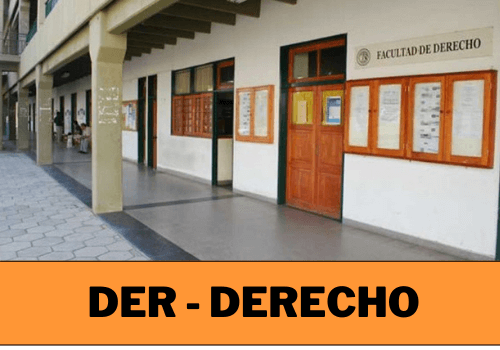
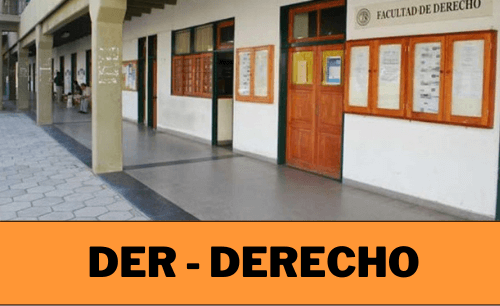
resize imgs, add overlay inscripcion

diff --git a/components/facultades/contacto/ContactoFacultad.js b/components/facultades/contacto/ContactoFacultad.js
@@ -1,5 +1,5 @@
 import {FontAwesomeIcon} from '@fortawesome/react-native-fontawesome';
-import {faAlignJustify, faEnvelope, faPhone} from '@fortawesome/free-solid-svg-icons';
+import {faAlignJustify, faArrowRight, faEnvelope, faPhone} from '@fortawesome/free-solid-svg-icons';
 import React, {useState} from 'react';
 import {TouchableOpacity, View, Text, Linking} from 'react-native';
 import {Overlay} from 'react-native-elements';
@@ -13,6 +13,10 @@ export default function ContactoFacultad({facultad}) {
   const [visible, setVisible] = useState(false);
   const toggleOverlay = () => {
     setVisible(!visible);
+  };
+  const [visible2, setVisible2] = useState(false);
+  const toggleOverlay2 = () => {
+    setVisible2(!visible2);
   };
   return (
     <>
@@ -76,7 +80,7 @@ export default function ContactoFacultad({facultad}) {
                 />
               </View>
               <View style={styles.buttonTextStyle}>
-                <Text style={styles.textStyle}>Telefono</Text>
+                <Text style={styles.textStyle}>Teléfono</Text>
               </View>
             </TouchableOpacity>
           </View>
@@ -111,14 +115,54 @@ export default function ContactoFacultad({facultad}) {
         <TouchableOpacity
           style={styles.buttonShortOutlineStyle}
           activeOpacity={0.5}
-          onPress={() => Linking.openURL('http://preinscripcion.unca.edu.ar/')}>
+          onPress={toggleOverlay2}>
           <View style={styles.buttonImageShortIconStyle}>
             <FontAwesomeIcon
               icon={faAlignJustify}
               size={normalize(20)}
               color={'#1999d0'}
+              style={{position: 'relative'}}
             />
           </View>
+          <Overlay isVisible={visible2} onBackdropPress={toggleOverlay2}>
+            <View style={styles.centeredView}>
+              <Text style={styles.textCartTitleStyle}>
+                {nombreCompleto}
+              </Text>
+
+              <Text style={styles.textCardTitle}>Requisitos a presentar</Text>
+              <Text style={styles.textCard}>
+              <Icon name="arrow-right" size={normalize(20)} color={'black'}/> Copia de frente y dorso del DNI actualizado.</Text>
+              <Text style={styles.textCard}>
+              <Icon name="arrow-right" size={normalize(20)} color={'black'}/> Partida de Nacimiento actualizada (Legalizada para quienes hayan nacido en otra provincia).</Text>
+              <Text style={styles.textCard}>
+              <Icon name="arrow-right" size={normalize(20)} color={'black'}/> Copia legalizada o constancia de certificado en trámite del Nivel Medio o Polimodal Aprobado.</Text>
+              <Text style={styles.textCard}>
+              <Icon name="arrow-right" size={normalize(20)} color={'black'}/> Cuatro (4) fotos Tipo carnet (4x4) en papel fotográfico.</Text>
+              <Text style={styles.textCard}>
+              <Icon name="arrow-right" size={normalize(20)} color={'black'}/> Libreta Universitaria (Adquirir en Secretaria de Extensión Universitaria - Prado Nº 155 – Tel 3834430833).
+              </Text>
+              
+              <View style={styles.buttonContainer}>
+        <TouchableOpacity
+          style={styles.buttonShortOutlineStyle}
+          activeOpacity={0.5}
+          onPress={() => Linking.openURL('http://preinscripcion.unca.edu.ar/')}>
+          <View style={styles.buttonImageShortIconStyle}>
+            <FontAwesomeIcon
+              icon={faArrowRight}
+              size={normalize(20)}
+              color={'#1999d0'}
+            />
+          </View>
+          <View style={styles.buttonTextStyle}>
+            <Text style={styles.textOutlineStyle}>Inscribirse</Text>
+          </View>
+        </TouchableOpacity>
+      </View>
+
+            </View>
+          </Overlay>
           <View style={styles.buttonTextStyle}>
             <Text style={styles.textOutlineStyle}>Inscripción</Text>
           </View>

diff --git a/components/DeporteComponent.js b/components/DeporteComponent.js
@@ -1,28 +1,33 @@
 import * as React from "react";
-import { TouchableOpacity, View, Text, Linking, ScrollView} from "react-native";
+import { TouchableOpacity, View, Text, Linking, ScrollView, Image} from "react-native";
 import { Card, Divider } from "react-native-elements";
 import { estiloBase } from "../assets/styles/estiloBase";
 import { estiloFacultades } from "../assets/styles/estiloFacultades";
 import { normalize } from "./utils/utils";
 import { FontAwesomeIcon } from "@fortawesome/react-native-fontawesome";
 import { faPhone } from "@fortawesome/free-solid-svg-icons";
+import Icon from 'react-native-vector-icons/FontAwesome';
 
 
 export default function DeporteComponent() {
-const colorBackgroundItems = '#2ECC71'
-const telefonoDeporte = '3834430657'
+const colorBackgroundItems = '#2ECC71';
+const telefonoDeporte = '3834430657';
+const wspDeporte = '3834545986'
   return (
     <> 
     
     <ScrollView >
     
-    <Card>
-      <Text style={styles.titleText}>Secretaría de Bienestar Universitario y Asuntos estudiantiles</Text>
-  <Card.Divider/>
+    <Card >
+    <Text style={styles.titleText}>Secretaría de Bienestar Universitario y Asuntos estudiantiles</Text>
+    <Image
+            source={require('../assets/deportes.jpg')}
+            style={styles.responsiveImage}></Image>
+      
 
-              <View style={{...styleButton.buttonContainer, width:180, alignSelf:'center'}}>
+              <View style={{...styleButton.buttonContainer, width:'100%', alignSelf:'center', margin:'5%', flexDirection:'row'}}>
             <TouchableOpacity
-              style={{...styleButton.buttonShortStyle}}
+              style={{...styleButton.buttonShortStyle, flex:100, marginRight:'5%'}}
               activeOpacity={0.5}
               onPress={() => Linking.openURL(`tel: ${telefonoDeporte}`)}>
               <View style={styleButton.buttonImageShortIconStyle}>
@@ -34,7 +39,23 @@ const telefonoDeporte = '3834430657'
                 />
               </View>
               <View style={styleButton.buttonTextStyle}>
-                <Text style={styleButton.textStyle}>Telefono</Text>
+                <Text style={styleButton.textStyle}>Teléfono</Text>
+              </View>
+            </TouchableOpacity> 
+            <TouchableOpacity
+              style={{...styleButton.buttonShortStyle, backgroundColor:'#00bb2d', flex:100}}
+              activeOpacity={0.5}
+              onPress={() =>
+                Linking.openURL(
+                  `https://api.whatsapp.com/send?phone=${wspDeporte}`,
+                )
+              }>
+              <View style={{margin:'3%'}}>
+              <Icon name="whatsapp" size={normalize(20)} color={'white'}/>
+               
+              </View>
+              <View style={styleButton.buttonTextStyle}>
+                <Text style={styleButton.textStyle}>Whatsapp</Text>
               </View>
             </TouchableOpacity>
           </View>
@@ -57,7 +78,7 @@ const telefonoDeporte = '3834430657'
           >
           <Text style={styles.buttonTextStyle}>Más información</Text>
           </TouchableOpacity>
-      
+          <Text style={styles.buttonTextStyle}></Text>
 </Card>
       
       

diff --git a/components/SaludComponent.js b/components/SaludComponent.js
@@ -25,13 +25,13 @@ export default function SaludComponent() {
       <Divider/>
       
       <Text style={styles.baseTextTitle}>Servicios</Text>
-      <Text style={styles.baseTextList}>Atención en consultorios de Clínica médica, Ginecología, Obstetricia, Psicología, Nutrición y Enfermería</Text>     
-      <Text style={styles.baseTextList}>Exámenes Psicofísicos</Text>
-      <Text style={styles.baseTextList}>Programas de Prevención de Enfermedades y Promoción de la Salud</Text>
-      <Text style={styles.baseTextList}>Complementación de medicamentos necesarios para tratamientos</Text>
-      <Text style={styles.baseTextList}>Programa de Sexualidad Responsable y Prevención de ETS</Text>
-      <Text style={styles.baseTextList}>Programa Nacional de Inmunizaciones</Text>
-      <Text style={styles.baseTextList}>Asesoría Nutricional</Text>   
+      <Text style={{...styles.baseTextList, backgroundColor:'#E70707', color:'#FFFFFF'}}>Atención en consultorios de Clínica médica, Ginecología, Obstetricia, Psicología, Nutrición y Enfermería</Text>     
+      <Text style={{...styles.baseTextList, backgroundColor:'#FF8282', color:'#0f0f0f'}}>Exámenes Psicofísicos</Text>
+      <Text style={{...styles.baseTextList, backgroundColor:'#E70707', color:'#FFFFFF'}}>Programas de Prevención de Enfermedades y Promoción de la Salud</Text>
+      <Text style={{...styles.baseTextList, backgroundColor:'#FF8282', color:'#0f0f0f'}}>Complementación de medicamentos necesarios para tratamientos</Text>
+      <Text style={{...styles.baseTextList, backgroundColor:'#E70707', color:'#FFFFFF'}}>Programa de Sexualidad Responsable y Prevención de ETS</Text>
+      <Text style={{...styles.baseTextList, backgroundColor:'#FF8282', color:'#0f0f0f'}}>Programa Nacional de Inmunizaciones</Text>
+      <Text style={{...styles.baseTextList, backgroundColor:'#E70707', color:'#FFFFFF'}}>Asesoría Nutricional</Text>   
       
 </Card>
         </ScrollView>

diff --git a/components/facultades/agrarias/FacultadAgrariasComponent.js b/components/facultades/agrarias/FacultadAgrariasComponent.js
@@ -6,7 +6,7 @@ import {
 import {FontAwesomeIcon} from '@fortawesome/react-native-fontawesome';
 import React, {useEffect} from 'react';
 import {Text, View, BackHandler, Image, TouchableOpacity} from 'react-native';
-import {Card, Button} from 'react-native-elements';
+import {Card, Button, Divider} from 'react-native-elements';
 import {ScrollView} from 'react-native-gesture-handler';
 import {estiloFacultades} from '../../../assets/styles/estiloFacultades';
 import {normalize} from '../../utils/utils';
@@ -47,7 +47,7 @@ export default function FacultadAgrariasComponent({navigation}) {
                     color="#ffffff"
                   />
                 }
-                buttonStyle={{width: '100%', height: undefined, marginRight: 5}}
+                buttonStyle={styles.buttonAnterior}
                 onPress={() => {
                   navegarAComponente('Facultad de Economicas');
                 }}
@@ -64,14 +64,13 @@ export default function FacultadAgrariasComponent({navigation}) {
                     color="#ffffff"
                   />
                 }
-                buttonStyle={{width: '100%', height: undefined, marginLeft: 5}}
+                buttonStyle={styles.buttonSiguiente}
                 onPress={() => {
                   navegarAComponente('Facultad de Derecho');
                 }}
               />
             </Card.Title>
           </View>
-          <Card.Divider style={{backgroundColor: '#0F0F0F'}} />
           <Image
             source={require('../../../assets/agrarias.png')}
             style={styles.responsiveImage}></Image>

diff --git a/components/facultades/derecho/FacultadDerechoComponent.js b/components/facultades/derecho/FacultadDerechoComponent.js
@@ -47,9 +47,9 @@ export default function FacultadDerechoComponent({navigation}) {
                     color="#ffffff"
                   />
                 }
-                buttonStyle={{width: '100%', height: undefined, marginRight: 5}}
+                buttonStyle={styles.buttonAnterior}
                 onPress={() => {
-                  navegarAComponente('Escuela de Agrarias');
+                  navegarAComponente('Facultad de Agrarias');
                 }}
               />
 
@@ -64,14 +64,13 @@ export default function FacultadDerechoComponent({navigation}) {
                     color="#ffffff"
                   />
                 }
-                buttonStyle={{width: '100%', height: undefined, marginLeft: 5}}
+                buttonStyle={styles.buttonSiguiente}
                 onPress={() => {
                   navegarAComponente('Facultad de Salud');
                 }}
               />
             </Card.Title>
           </View>
-          <Card.Divider style={{backgroundColor: '#0F0F0F'}} />
           <Image
             source={require('../../../assets/derecho.png')}
             style={styles.responsiveImage}></Image>

diff --git a/components/facultades/exactas/FacultadExactasComponent.js b/components/facultades/exactas/FacultadExactasComponent.js
@@ -43,7 +43,7 @@ export default function FacultadExactasComponent({navigation}) {
                     color="#ffffff"
                   />
                 }
-                buttonStyle={{width: '100%', height: undefined, marginRight: 5}}
+                buttonStyle={styles.buttonAnterior}
                 onPress={() => {
                   navegarAComponente('Facultad de Salud');
                 }}
@@ -52,6 +52,7 @@ export default function FacultadExactasComponent({navigation}) {
               <View style={styles.alignVertical}>
                 <Text style={styles.textCartTitleStyle}>{nombre}</Text>
               </View>
+              
               <Button
                 icon={
                   <FontAwesomeIcon
@@ -60,7 +61,7 @@ export default function FacultadExactasComponent({navigation}) {
                     color="#ffffff"
                   />
                 }
-                buttonStyle={{width: '100%', height: undefined, marginLeft: 5}}
+                buttonStyle={styles.buttonSiguiente}
                 onPress={() => {
                   navegarAComponente('Facultad de Tecnologia');
                 }}

diff --git a/assets/styles/estiloFacultades.js b/assets/styles/estiloFacultades.js
@@ -4,7 +4,16 @@ import { normalize } from "../../components/utils/utils";
 
 
 export const estiloFacultades = StyleSheet.create({
-
+  buttonAnterior:{
+    marginRight: 2,
+    borderColor:'black',
+    borderWidth:1,
+  },
+  buttonSiguiente:{
+    marginLeft: 2,
+    borderColor:'black',
+    borderWidth:1,
+  },
   centeredView: {
     justifyContent: "center",
     alignItems: "center", 
@@ -49,8 +58,7 @@ export const estiloFacultades = StyleSheet.create({
       // Without height undefined it won't work
       height: undefined,
       // figure out your image aspect ratio
-      aspectRatio: 135 / 80,
-      marginBottom:'1%'
+      aspectRatio: 135 / 75,
     },
     cardContainer:{
       borderWidth: 1, 
@@ -77,8 +85,9 @@ export const estiloFacultades = StyleSheet.create({
     textCard:{
       marginTop: 5,
       marginBottom: 5,
-      fontSize:normalize(15),
+      fontSize:normalize(16),
       fontFamily: 'appFont',
+      textAlign:'center'
     },
     centeredView: {
       

diff --git a/components/facultades/escuela-arqueologia/EscuelaArqueologiaComponent.js b/components/facultades/escuela-arqueologia/EscuelaArqueologiaComponent.js
@@ -43,7 +43,7 @@ export default function EscuelaArqueologiaComponent({navigation}) {
                     color="#ffffff"
                   />
                 }
-                buttonStyle={{width: '100%', height: undefined, marginRight: 5}}
+                buttonStyle={styles.buttonAnterior}
                 onPress={() => {
                   navegarAComponente('Facultad de Humanidades');
                 }}
@@ -60,7 +60,7 @@ export default function EscuelaArqueologiaComponent({navigation}) {
                     color="#ffffff"
                   />
                 }
-                buttonStyle={{width: '100%', height: undefined, marginLeft: 5}}
+                buttonStyle={styles.buttonSiguiente}
                 onPress={() => {
                   navegarAComponente('Facultad de Economicas');
                 }}

diff --git a/components/facultades/economicas/FacultadEconomicasComponent.js b/components/facultades/economicas/FacultadEconomicasComponent.js
@@ -47,7 +47,7 @@ export default function FacultadEconomicasComponent({navigation}) {
                     color="#ffffff"
                   />
                 }
-                buttonStyle={{width: '100%', height: undefined, marginRight: 5}}
+                buttonStyle={styles.buttonAnterior}
                 onPress={() => {
                   navegarAComponente('Escuela de Arqueologia');
                 }}
@@ -64,7 +64,7 @@ export default function FacultadEconomicasComponent({navigation}) {
                     color="#ffffff"
                   />
                 }
-                buttonStyle={{width: '100%', height: undefined, marginLeft: 5}}
+                buttonStyle={styles.buttonSiguiente}
                 onPress={() => {
                   navegarAComponente('Facultad de Agrarias');
                 }}

diff --git a/components/facultades/tecnologia/FacultadTecnologiaComponent.js b/components/facultades/tecnologia/FacultadTecnologiaComponent.js
@@ -47,7 +47,7 @@ export default function FacultadTecnologiaComponent({navigation}) {
                     color="#ffffff"
                   />
                 }
-                buttonStyle={{width: '100%', height: undefined, marginRight: 5}}
+                buttonStyle={styles.buttonAnterior}
                 onPress={() => {
                   navegarAComponente('Facultad de Exactas');
                 }}
@@ -63,7 +63,7 @@ export default function FacultadTecnologiaComponent({navigation}) {
                     color="#ffffff"
                   />
                 }
-                buttonStyle={{width: '100%', height: undefined, marginLeft: 5}}
+                buttonStyle={styles.buttonSiguiente}
                 onPress={() => {
                   navegarAComponente('Facultad de Humanidades');
                 }}

diff --git a/components/facultades/salud/FacultadSaludComponent.js b/components/facultades/salud/FacultadSaludComponent.js
@@ -47,7 +47,7 @@ export default function FacultadSaludComponent({navigation}) {
                     color="#ffffff"
                   />
                 }
-                buttonStyle={{width: '100%', height: undefined, marginRight: 5}}
+                buttonStyle={styles.buttonAnterior}
                 onPress={() => {
                   navegarAComponente('Facultad de Derecho');
                 }}
@@ -64,7 +64,7 @@ export default function FacultadSaludComponent({navigation}) {
                     color="#ffffff"
                   />
                 }
-                buttonStyle={{width: '100%', height: undefined, marginLeft: 5}}
+                buttonStyle={styles.buttonSiguiente}
                 onPress={() => {
                   navegarAComponente('Facultad de Exactas');
                 }}

diff --git a/components/facultades/humanidades/FacultadHumanidadesComponent.js b/components/facultades/humanidades/FacultadHumanidadesComponent.js
@@ -43,7 +43,7 @@ export default function FacultadHumanidadesComponent({navigation}) {
                     color="#ffffff"
                   />
                 } 
-                buttonStyle={{marginRight: 1}}
+                buttonStyle={styles.buttonAnterior}
                 onPress={() => {
                   navegarAComponente('Facultad de Tecnologia');
                 }}
@@ -59,7 +59,7 @@ export default function FacultadHumanidadesComponent({navigation}) {
                     color="#ffffff"
                   />
                 }
-                buttonStyle={{marginLeft: 1}}
+                buttonStyle={styles.buttonSiguiente}
                 onPress={() => {
                   navegarAComponente('Escuela de Arqueologia');
                 }}
